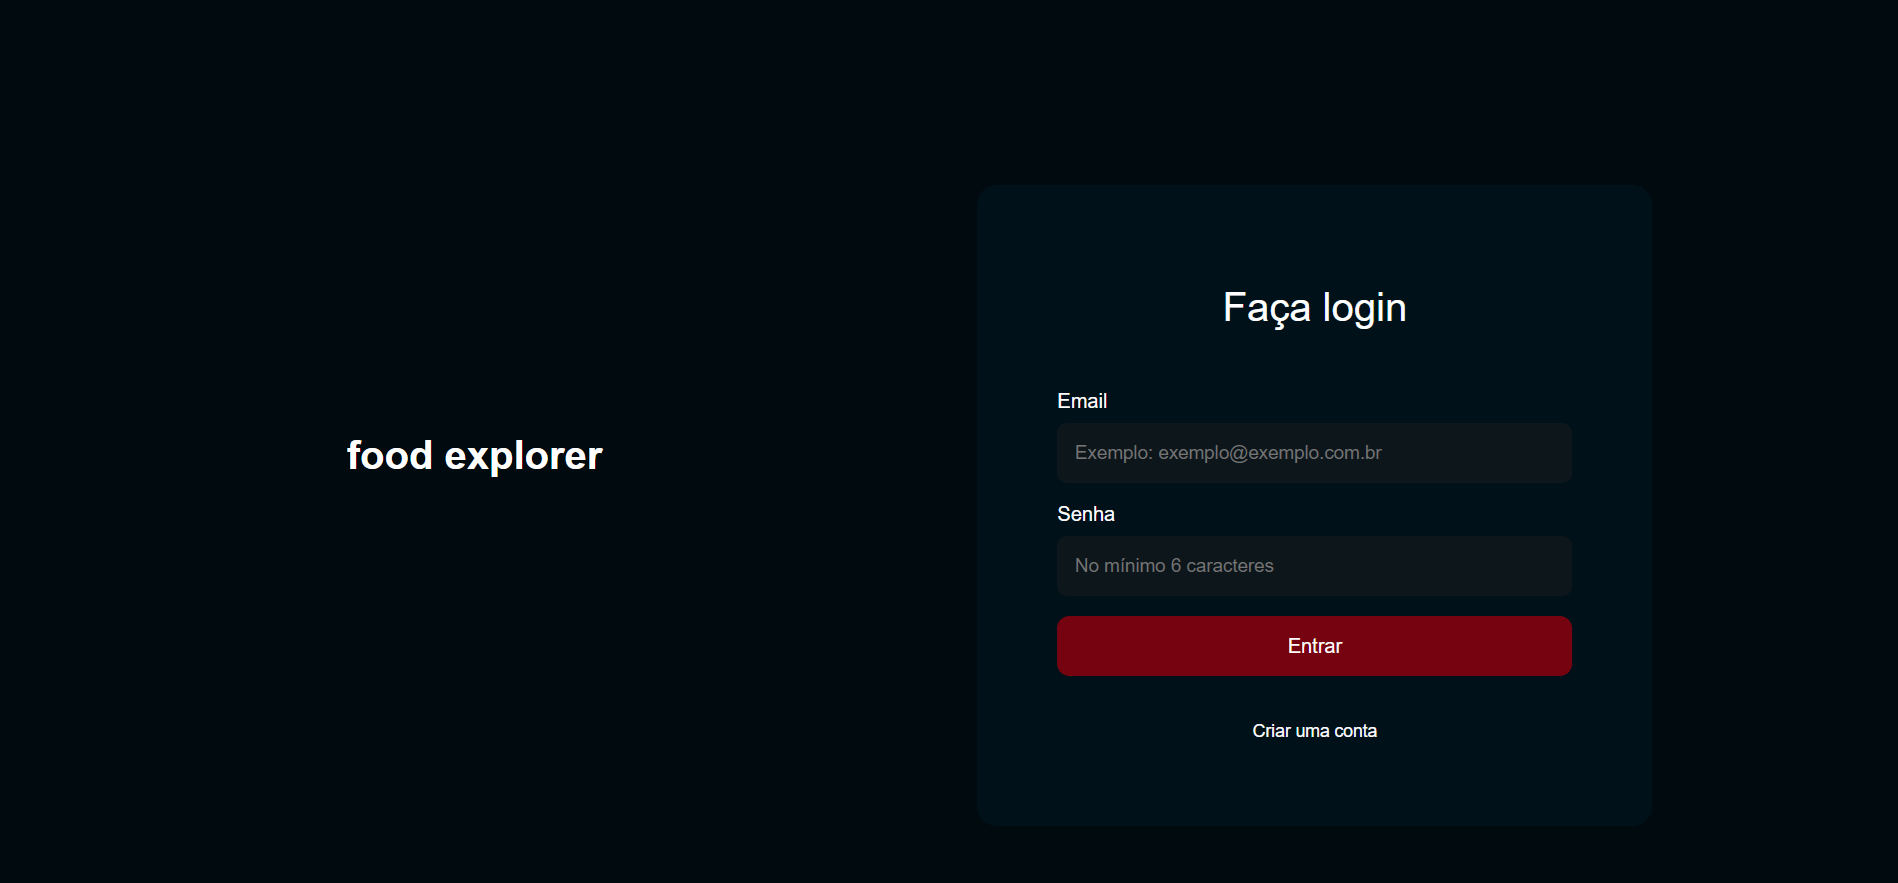
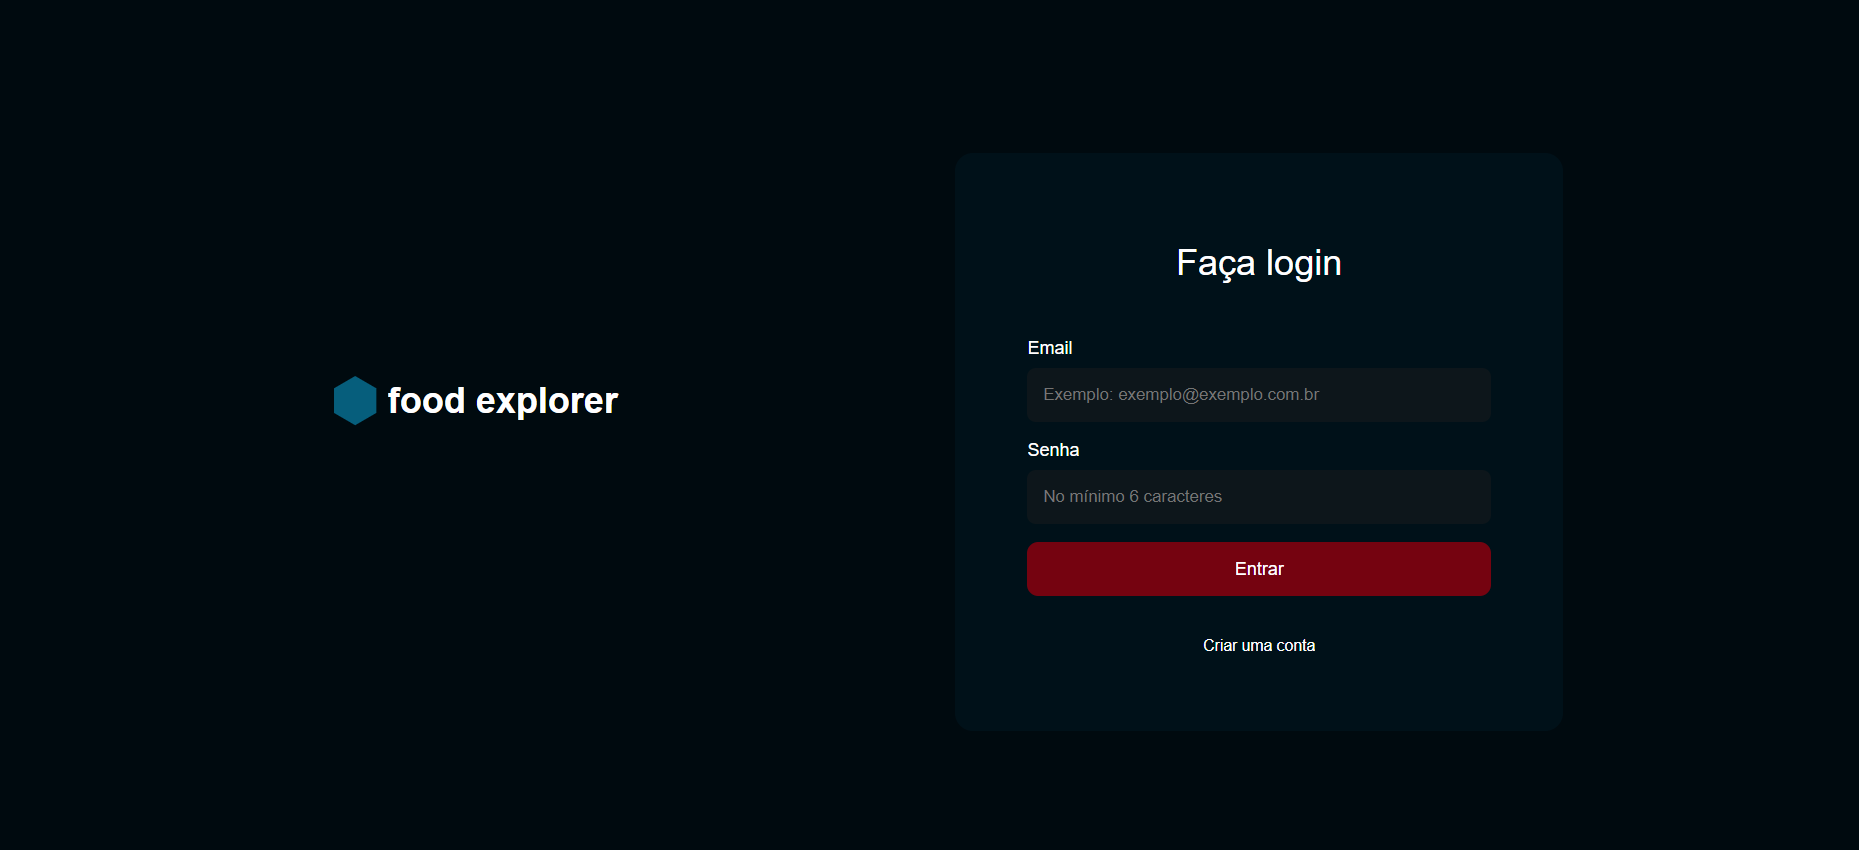
...

diff --git a/src/pages/SignIn/index.jsx b/src/pages/SignIn/index.jsx
@@ -5,7 +5,7 @@ import { Link } from "react-router-dom"
 import { useAuth } from "../../hooks/auth"
 import { useState } from "react"
 
-
+import img from '../../assets/logo.svg';
 
 export function SignIn(){
   const[email, setEmail] = useState("")
@@ -26,7 +26,7 @@ export function SignIn(){
     <main>
       <Container>
       <div className="title">
-          <Logo></Logo>
+          <img src={img} alt="" />
           <h1>food explorer</h1>
       </div>
 

diff --git a/src/pages/SignUp/index.jsx b/src/pages/SignUp/index.jsx
@@ -7,6 +7,7 @@ import { Container, Logo } from "./styles"
 import { Input } from '../../components/Input'
 import { Button } from '../../components/Button'
 
+import img from '../../assets/logo.svg';
 
 export function SignUp(){
 
@@ -40,7 +41,7 @@ export function SignUp(){
     <main>
       <Container>
       <div className="title">
-          <Logo></Logo>
+        <img src={img} alt="" />
           <h1>food explorer</h1>
       </div>
 

diff --git a/src/pages/SignUp/styles.js b/src/pages/SignUp/styles.js
@@ -10,17 +10,16 @@ export const Container = styled.div`
     padding-top:15.8rem;
     padding-left: 6.8rem;
     padding-right: 4.7rem;
-
-    
 > .title{
 
-    display:flex;
-    justify-content: flex-start;
-    margin-bottom: 7.3rem;
-    
+display:flex;
+align-items: center;
+justify-content: flex-start;
+margin-bottom: 7.3rem;
+gap: 1rem;
 
 }
-    
+
 
 
 .form_main h1{

diff --git a/src/pages/SignIn/styles.js b/src/pages/SignIn/styles.js
@@ -13,8 +13,10 @@ export const Container = styled.div`
 > .title{
 
     display:flex;
+    align-items: center;
     justify-content: flex-start;
     margin-bottom: 7.3rem;
+    gap: 1rem;
 
 }
 

diff --git a/README.md b/README.md
@@ -7,8 +7,9 @@
 <a href="#telas">Telas</a>&nbsp;&nbsp;&nbsp;|&nbsp;&nbsp;&nbsp;
 <a href="#tecnologias">Tecnologias</a>&nbsp;&nbsp;&nbsp;|&nbsp;&nbsp;&nbsp;
 <a href="#layout">Layout</a>&nbsp;&nbsp;&nbsp;|&nbsp;&nbsp;&nbsp;
-<a href="#instacao">Instalação e uso</a>&nbsp;&nbsp;&nbsp;|&nbsp;&nbsp;&nbsp;
-<a href="#projeto">Projeto</a>&nbsp;&nbsp;&nbsp;
+<a href="#instalação">Instalação</a>&nbsp;&nbsp;&nbsp;
+<br>
+
 
 <img alt="" src="./src/assets/a.png">
 
@@ -50,7 +51,7 @@ Link do layout usado no projeto:
 
 - [Layout Figma](https://www.figma.com/file/TA9lm0BzTiebtxxD2MNAhV/food-explorer-v2-(Community)?type=design&node-id=201-1532&mode=design&t=zjEzwgL6qBDnPeGF-0)
 
-## Instalação e uso
+## Instalação 
 
 Para clonar e executar esta aplicação, você precisará do [Git](https://git-scm.com/). A partir de sua linha de comando:
 
